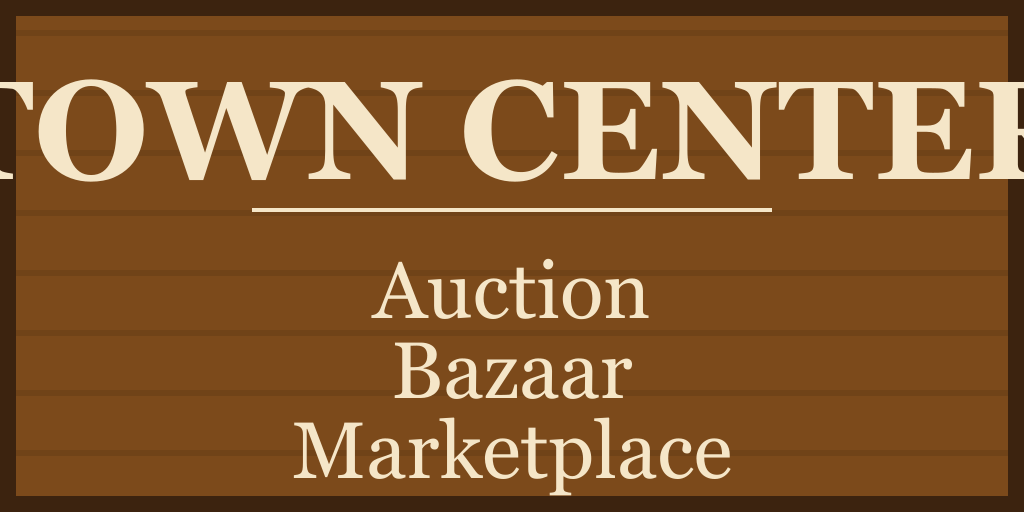
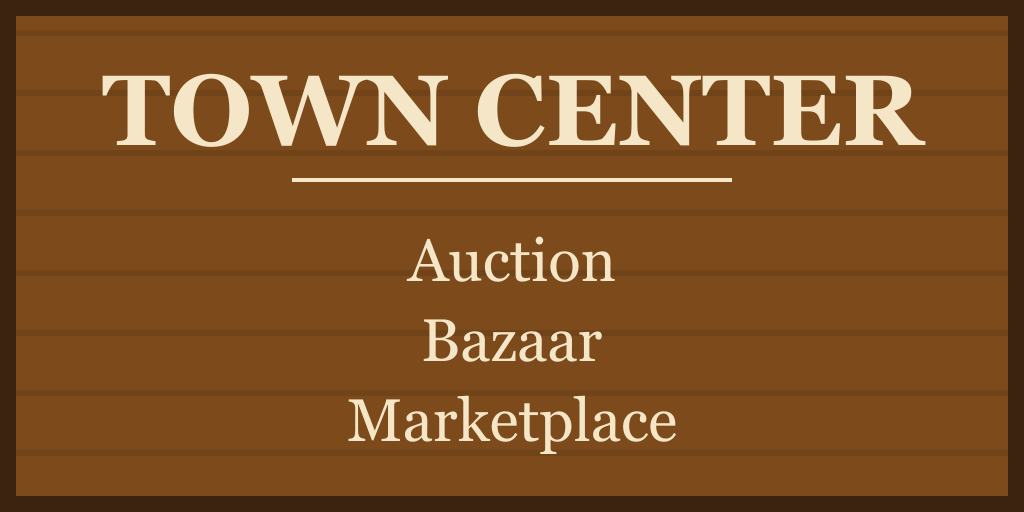
fix(3d): smaller sign text + lower position
- Text sizes: 'TOWN CENTER' 140->100px, subheaders 80->60px
- SIGN_Y 150 -> 0 so posts rest just above sand (Y=-2)
- PNG regenerated with the new sizing

Changed region(s): [[0.0, 0.125, 1.0, 0.375], [0.2812, 0.4688, 0.7188, 0.9688], [0.25, 0.4062, 0.75, 0.4375]]

diff --git a/apps/web/src/lib/three/town-directory-sign.tsx b/apps/web/src/lib/three/town-directory-sign.tsx
@@ -19,7 +19,7 @@ const PLANK_Y = POST_H - PLANK_H / 2;
 const BACKING_D = 10;
 
 const SIGN_X = 0;
-const SIGN_Y = 150;
+const SIGN_Y = 0; // posts rest just above sand (sand at Y=-2); was 150 — too high
 const SIGN_Z = -120;
 
 const WOOD_COLOR = 0x7c4a1b;
